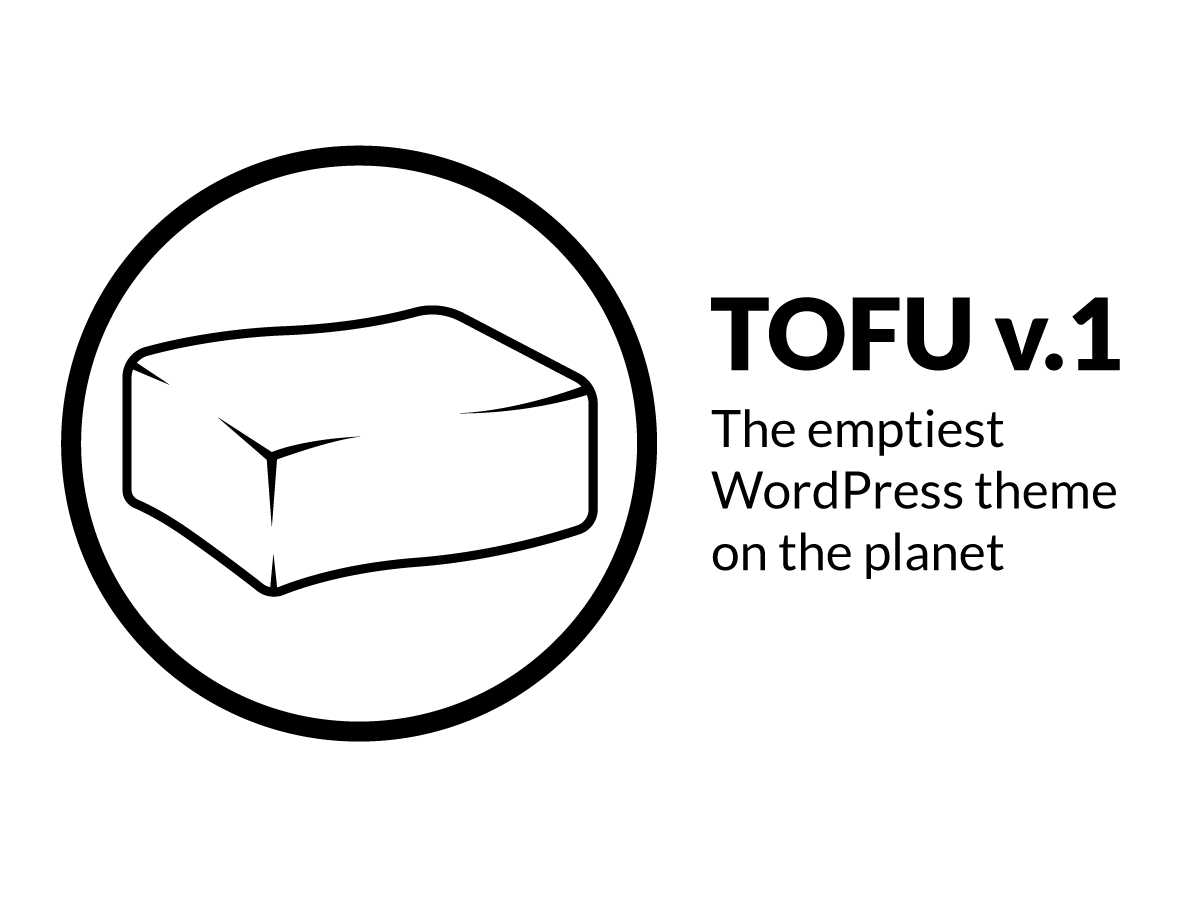
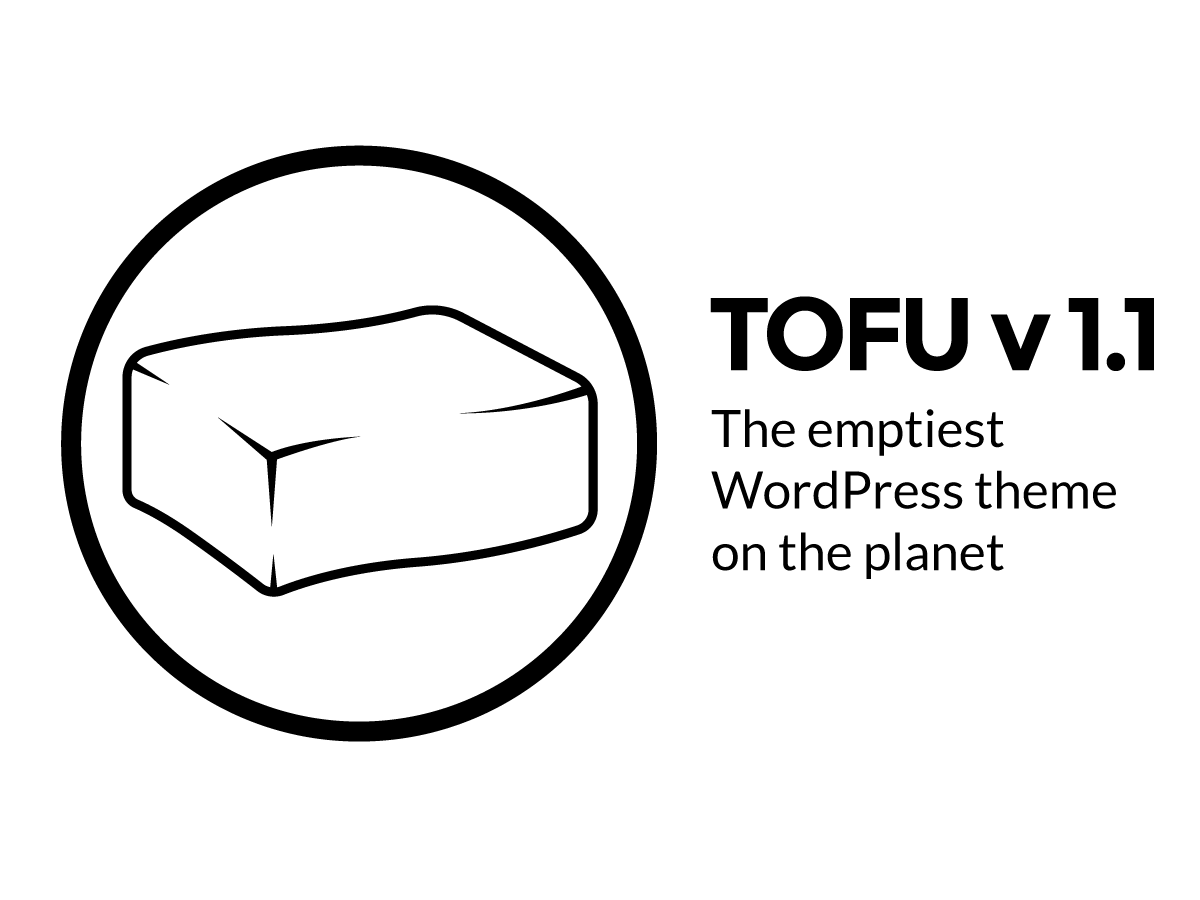
retooled the functions file to add scripts and styles. Added mod.css to more easily change font styles with out modifying the main css.

Changed region(s): [[0.8017, 0.3111, 0.9867, 0.4356], [0.6783, 0.3422, 0.7708, 0.4044], [0.6167, 0.3422, 0.6475, 0.4044]]

diff --git a/tofu/css/main_min.css b/tofu/css/main_min.css
@@ -8,7 +8,7 @@ body {
     margin: 0;
     padding: 0;
     font-weight: 300;
-    background-color: #e3e3e3;
+    background-color: #000;
     color: #3e3e3e;
     line-height: 1.5em;
     height: 100%;
@@ -46,7 +46,6 @@ body.fade {
 
 h1 {
     font-weight: 400;
-    font-family: 'Oswald', sans-serif;
     letter-spacing: .125em;
     text-transform: uppercase;
     line-height: 1.25em;
@@ -133,7 +132,6 @@ h3 {
     z-index: 999;
     color: #efefef;
     transition: all 0.75s;
-    font-family: 'Lato', sans-serif;
 }
 
 .show-menu {
@@ -206,4 +204,21 @@ h3 {
     z-index: 999;
     display: none;
     opacity: .8
+}
+
+/* extras */
+
+.disclaimer{
+	background-color: #fff;
+	border-radius: 12px;
+	-webkit-box-shadow: 0 20px 60px 0 rgba(0,0,0,0.6);
+box-shadow: 0 20px 60px 0 rgba(0,0,0,0.6);
+}
+
+.full-height{
+	display: block;
+	position: relative;
+	width: 100%;
+	height: 100vh !important;
+	/*background-color: #336699;*/
 }

diff --git a/tofu/style.css b/tofu/style.css
@@ -1,10 +1,10 @@
 /*
-Theme Name: Tofu Version 1.0
+Theme Name: Tofu Version 1.1
 Theme URI: https://www.redlettermarketing.com
 Author: Red Letter Marketing
 Author URI: https://redlettermarketing.com/
 Description: Simple WP theme that utilize drop and drag page builders, specificly Elementor.
-Version: 1.0
+Version: 1.1
 License: GNU General Public License v2 or later
 License URI: http://www.gnu.org/licenses/gpl-2.0.html
 Text Domain: twentyseventeen

diff --git a/tofu/js/scripts_min.js b/tofu/js/scripts_min.js
@@ -108,6 +108,6 @@ $(document).scroll(function() {
 
   $(window).scroll(function(){
     $(".top").css("opacity", 1 - $(window).scrollTop() / 750);
-    $(".fadey").css("opacity", 0.6 - $(window).scrollTop() / 750);
+    $(".fadey").css("opacity", 1 - $(window).scrollTop() / 750);
     $(".logo img").css("margin-top", '300' + $(window).scrollTop() / 1500);
   });

diff --git a/tofu/css/mods.css b/tofu/css/mods.css
@@ -1,0 +1,7 @@
+h1{
+	 font-family: 'Oswald', sans-serif;
+}
+
+.menu{
+	font-family: 'Lato', sans-serif;
+}

diff --git a/tofu/functions.php b/tofu/functions.php
@@ -1,6 +1,50 @@
-<?php wp_deregister_script( 'jquery' );
+<?php  function add_scipts() {
+	
+// Add Scripts
+	if (!is_admin()) {
+		wp_deregister_script( 'jquery' );
+	
+		wp_register_script('jquery', '//ajax.googleapis.com/ajax/libs/jquery/2.2.4/jquery.min.js', '', true, '');
+		wp_enqueue_script('jquery');
+		wp_enqueue_script( 'scripts', get_template_directory_uri() . '/js/scripts_min.js', array('jquery'), '1.0', true );
+	}
+}
+add_action('init', 'add_scipts');
+
+
+// Add Styles
+function prefix_add_footer_styles() {
+	wp_enqueue_style( 'googlefonts', '//fonts.googleapis.com/css?family=Material+Icons',true,'1.1','all');
+    wp_enqueue_style( 'styles', get_template_directory_uri() . '/css/main_min.css',true,'1.1','all');
+    wp_enqueue_style( 'mods', get_template_directory_uri() . '/css/mods.css',true,'1.1','all');
+
+};
+add_action( 'get_footer', 'prefix_add_footer_styles' );
+
+
+// Remove WP Version From Styles	
+add_filter( 'style_loader_src', 'sdt_remove_ver_css_js', 9999 );
+// Remove WP Version From Scripts
+add_filter( 'script_loader_src', 'sdt_remove_ver_css_js', 9999 );
+
+// Function to remove version numbers
+function sdt_remove_ver_css_js( $src ) {
+	if ( strpos( $src, 'ver=' ) )
+		$src = remove_query_arg( 'ver', $src );
+	return $src;
+}
+
+//Register Menus
 
 function register_my_menu() {
   register_nav_menu('main_menu',__( 'Main Menu' ));
 }
 add_action( 'init', 'register_my_menu' );
+
+//Add SVG Mime Type
+
+function cc_mime_types($mimes) {
+  $mimes['svg'] = 'image/svg+xml';
+  return $mimes;
+}
+add_filter('upload_mimes', 'cc_mime_types');

diff --git a/tofu/header.php b/tofu/header.php
@@ -5,10 +5,11 @@
     <meta charset="utf-8">
     <meta name="viewport" content="width=device-width, initial-scale=1">
     <title><?php the_title();?>	</title>
-        <?php wp_head(); ?>
+     
     <style>
        body{background-color:#000}.all{opacity:0;-webkit-opacity:0}.open-overlay{display:block;position:fixed;top:0;left:0;width:100%;height:100vh;z-index:99999;background-color:#121212}.open-overlay-box{display:table;height:100vh;width:100%;text-align:center}.open-overlay-logo{display:table-cell;vertical-align:middle;opacity:.2;-webkit-opacity:.2}.open-overlay-logo img{max-width:120px!important;width:90%}.btt-footer{display: none;}
        </style>
+           <?php wp_head(); ?>
 </head>
 
 <body>

diff --git a/tofu/footer.php b/tofu/footer.php
@@ -4,13 +4,12 @@
             <div class="open-overlay-logo"><img class="cover-title-image" src="<?php bloginfo('template_directory'); ?>/images/spinner.svg"></div>
         </div>
     </div>
-    
-   <link href="//fonts.googleapis.com/css?family=Material+Icons" rel="stylesheet">
-    <link rel="stylesheet" type="text/css" href="<?php bloginfo('template_directory'); ?>/css/main_min.css">
-    <script src="<?php bloginfo('template_directory'); ?>/js/jquery-2.2.4.min.js"></script>
-     <script src="<?php bloginfo('template_directory'); ?>/js/scripts_min.js"></script>
- 
+   
+  
+
       <?php wp_footer(); ?>
+      
+         
      
 </body>
 
